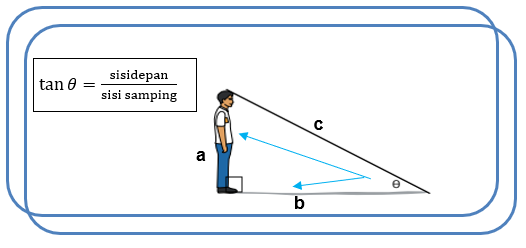
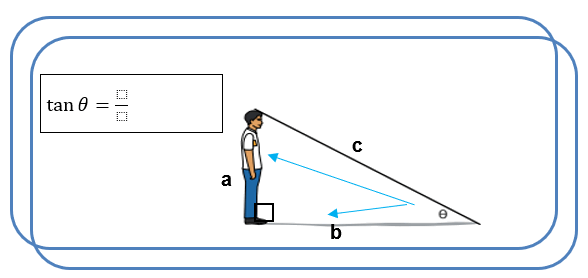
first commit

Changed region(s): [[0.0, 0.0, 1.0, 0.9879]]

diff --git a/scripts/next2.js b/scripts/next2.js
@@ -9,6 +9,7 @@ function next2Page() {
 <b>Sinus</b><br>
 Nilai Perbandingan ini mempunyai nama khusus yaitu Sinus (disingkat sin). Sin suatu sudut yang dapat ditentukan dengan membagi panjang <b class="text-danger">sisi depan</b> dan <b class="text-danger">sisi miring segitiga</b>. <br>
 <img src="../images/sinus.png" class="img-fluid w-75" alt="sinus"> </br>pada gambar di atas tentukan sisi depan dan sisi miring serta rumus dari sinθ!
+
 <iframe
  id="JotFormIFrame-232450973377463"
  title="Video Submit Form"
@@ -110,7 +111,8 @@ if (window.addEventListener) {
 <li>
 <b>Cosinus</b><br>
 Nilai Perbandingan ini mempunyai nama khusus yaitu Cosinus (disingkat Cos). Cos suatu sudut yang dapat ditentukan dengan membagi panjang <b class="text-danger">sisi samping</b>   dan <b class="text-danger">sisi miring segitiga</b> .  <br>
-<img src="../images/cosinus.png" class="img-fluid w-75" alt="Responsive image"> </br>pada gambar di atas manakah sisi samping dan sisi miring? 
+<img src="../images/cosinus.png" class="img-fluid w-75" alt="Responsive image"> </br>pada gambar di atas tentukan sisi samping dan sisi miring serta rumus dari cosθ !  
+
 <iframe
  id="JotFormIFrame-232450973377463"
  title="Video Submit Form"
@@ -214,7 +216,8 @@ if (window.addEventListener) {
 Nilai Perbandingan ini mempunyai nama khusus yaitu Tangen 
 (disingkat tan). Tan suatu sudut yang dapat ditentukan dengan membagi panjang <b class="text-danger">sisi depan</b>  dan <b class="text-danger">sisi samping segitiga</b>. 
   <br>
-<img src="../images/tangen.png" class="img-fluid w-75" alt="Responsive image"> </br> pada gambar di atas manakah sisi samping dan sisi miring? 
+<img src="../images/tangen.png" class="img-fluid w-75" alt="Responsive image"> </br> pada gambar di atas tentukan sisi depan dan sisi samping serta rumus dari tanθ! 
+
 <iframe
  id="JotFormIFrame-232450973377463"
  title="Video Submit Form"
